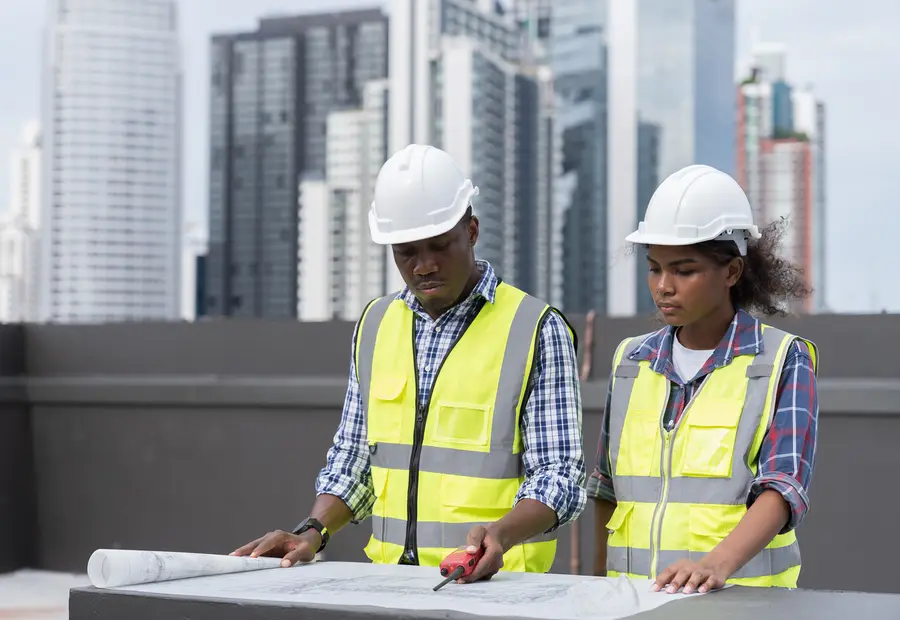
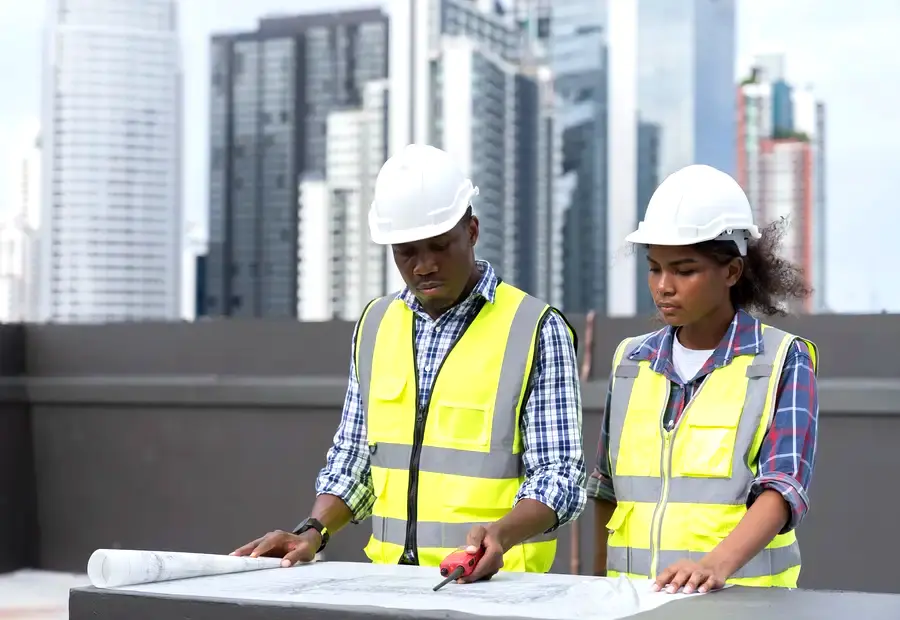
Éclaircir les photos KIDIMBOU (moins de voile bleu, image plus lumineuse)
Claude-Session: https://claude.ai/code/session_01E6FpdmevGXTi1RN5dnNTRb

diff --git a/guichet-unique/assets/css/guichet.css b/guichet-unique/assets/css/guichet.css
@@ -129,7 +129,7 @@ img{max-width:100%;display:block;}
    ============================================================ */
 .hero-photo{margin:4px 16px 14px;border-radius:var(--radius-lg);overflow:hidden;box-shadow:var(--shadow-soft);position:relative;height:200px;}
 .hero-photo img{width:100%;height:100%;object-fit:cover;object-position:center 30%;}
-.hero-photo::after{content:"";position:absolute;inset:0;background:linear-gradient(180deg, rgba(12,25,54,0) 55%, rgba(12,25,54,.55));pointer-events:none;}
+.hero-photo::after{content:"";position:absolute;inset:0;background:linear-gradient(180deg, rgba(20,20,15,0) 72%, rgba(20,20,15,.32));pointer-events:none;}
 .hero-photo-badge{position:absolute;left:14px;bottom:12px;color:#fff;font-size:.7rem;font-weight:700;letter-spacing:.04em;display:flex;align-items:center;gap:6px;text-shadow:0 1px 4px rgba(0,0,0,.4);}
 .hero-photo-badge svg{width:13px;height:13px;flex:none;}
 .hero-card{margin:4px 16px 18px;padding:28px 22px 24px;border-radius:var(--radius-lg);background:var(--paper);border:1px solid var(--line);position:relative;overflow:hidden;box-shadow:var(--shadow-soft);}
@@ -197,7 +197,7 @@ img{max-width:100%;display:block;}
 .demarche-hero::before{content:"";position:absolute;inset:0;background:radial-gradient(300px 200px at 100% 0%, rgba(200,148,47,.22), transparent 60%);pointer-events:none;z-index:1;}
 .dh-img{height:130px;position:relative;}
 .dh-img img{width:100%;height:100%;object-fit:cover;}
-.dh-img::after{content:"";position:absolute;inset:0;background:linear-gradient(180deg, rgba(12,25,54,.15) 0%, var(--navy) 96%);}
+.dh-img::after{content:"";position:absolute;inset:0;background:linear-gradient(180deg, rgba(12,25,54,0) 62%, var(--navy) 100%);}
 .demarche-hero .dh-body{padding:20px 20px 24px;position:relative;z-index:1;}
 .demarche-hero .dh-kicker{font-size:.66rem;font-weight:800;letter-spacing:.1em;text-transform:uppercase;color:var(--gold-light);margin-bottom:8px;position:relative;}
 .demarche-hero h2{font-size:1.6rem;margin:0 0 8px;position:relative;font-weight:600;}
